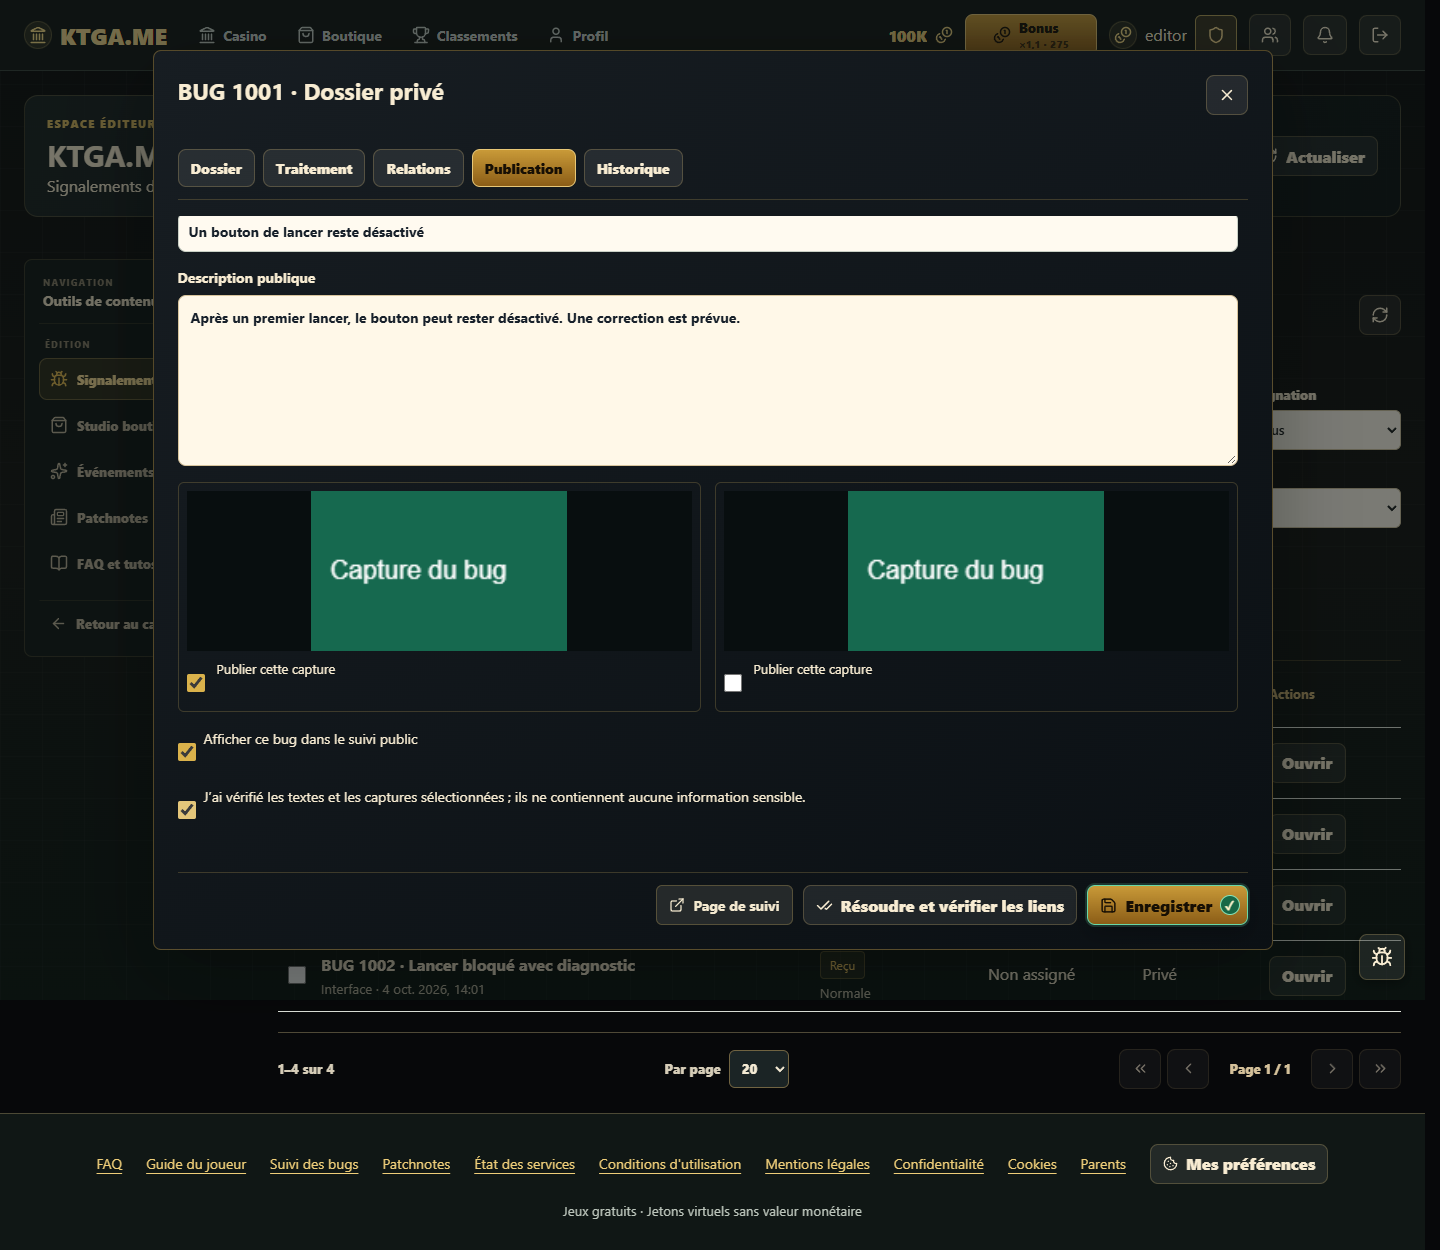
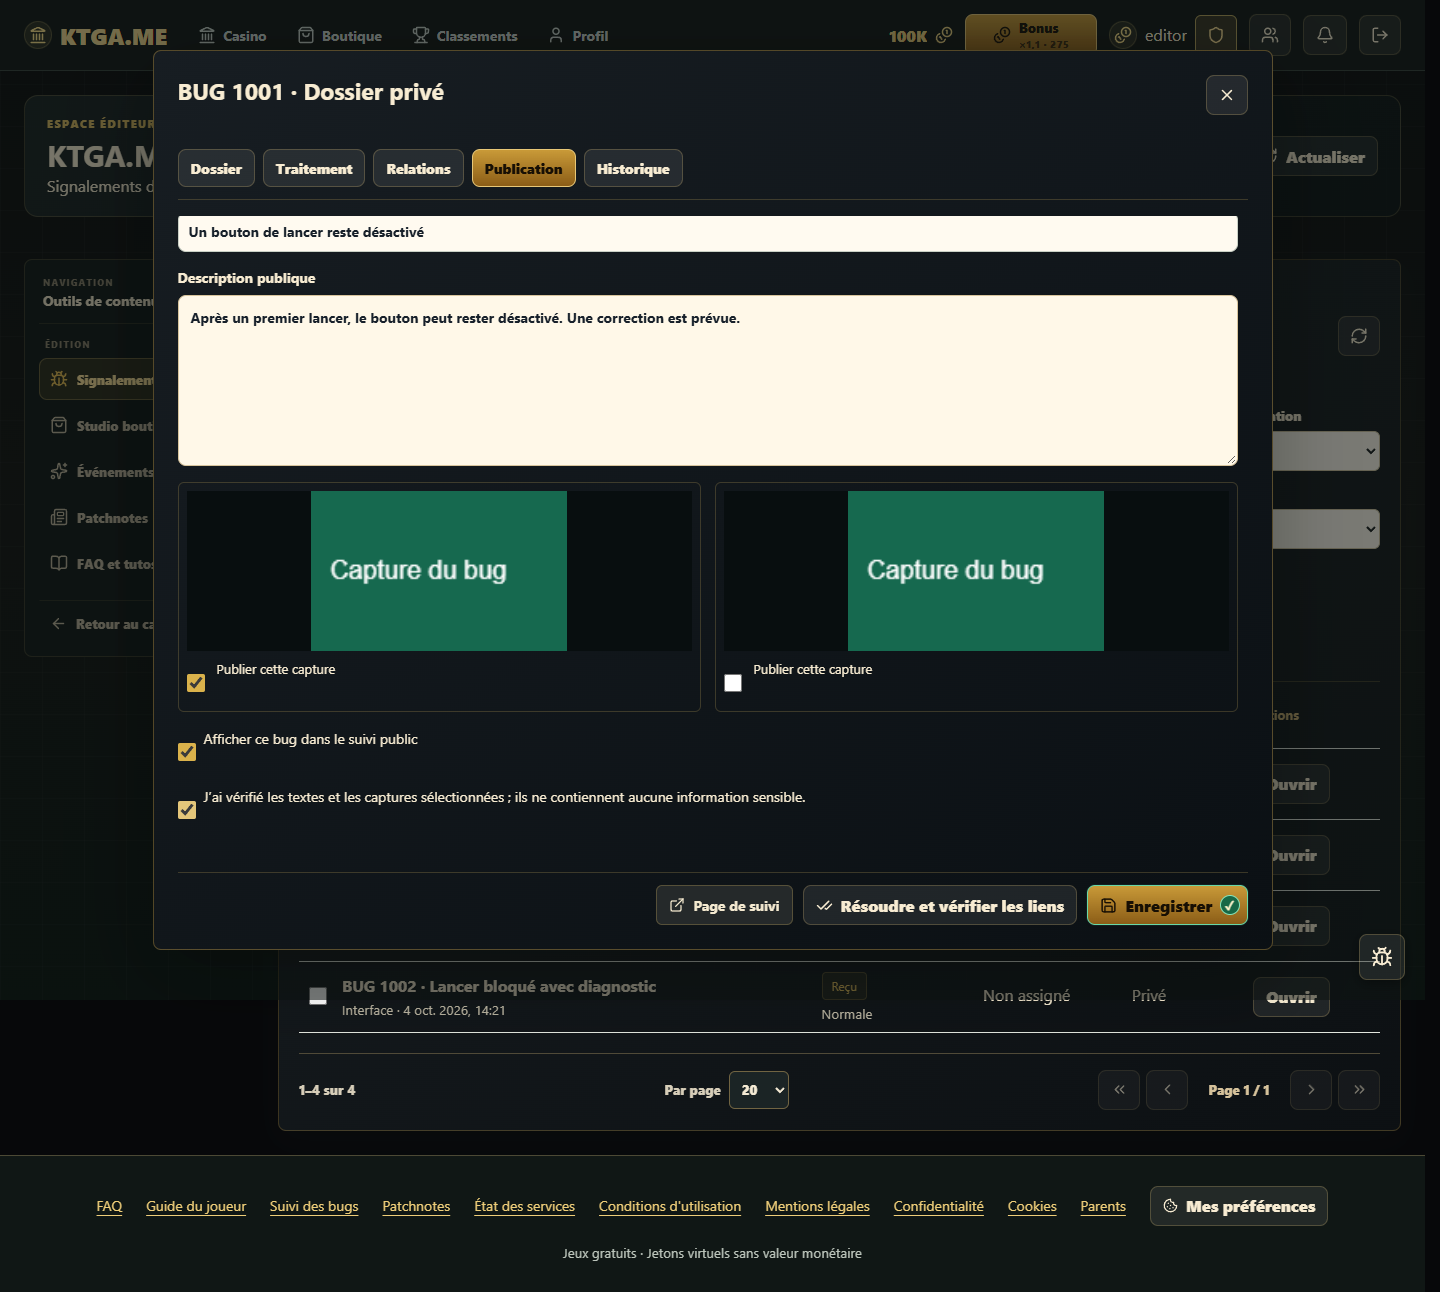
fix(bugs): restore framed public and admin page surfaces

diff --git a/client/src/features/bugs/BugReportsPage.jsx b/client/src/features/bugs/BugReportsPage.jsx
@@ -37,7 +37,7 @@ export function BugReportsPage({ id, user, onBack, onNavigate }) {
   }
   const shown = report && privileged && !privateView && report.visible ? { ...report, title: report.publicTitle, description: report.publicDescription, images: report.images.filter((image) => image.visible), comments: report.comments.filter((entry) => entry.visible && entry.kind !== "internal"), privateView: false } : report;
   const changeFilter = (key, value) => setFilters((current) => ({ ...current, [key]: value, page: 1 }));
-  return <main className="app-shell issue-page"><header className="page-heading"><div><span className="eyebrow">KTGA.ME · Suivi public</span><h1><Bug size={27} />{id ? `BUG ${id}` : "Signalements de bugs"}</h1></div><button type="button" className="secondary" onClick={id ? () => onNavigate("") : onBack}><ArrowLeft size={17} />{id ? "Tous les bugs" : "Casino"}</button></header><section className="panel issue-page-panel">
+  return <main className="app-shell issue-page"><header className="page-heading"><div><span className="eyebrow">KTGA.ME · Suivi public</span><h1><Bug size={27} />{id ? `BUG ${id}` : "Signalements de bugs"}</h1></div><button type="button" className="secondary" onClick={id ? () => onNavigate("") : onBack}><ArrowLeft size={17} />{id ? "Tous les bugs" : "Casino"}</button></header><section className="issue-page-panel">
     {error && <p className="error" role="alert">{error}</p>}
     {!id && <><div className="issue-filters"><label className="issue-search"><Search size={17} /><input aria-label="Rechercher un bug" placeholder="Titre ou BUG 1842" value={filters.search} onChange={(event) => changeFilter("search", event.target.value)} /></label>{["status", "category"].map((key) => <label key={key}>{key === "status" ? "Statut" : "Catégorie"}<select aria-label={key === "status" ? "Statut" : "Catégorie"} value={filters[key]} onChange={(event) => changeFilter(key, event.target.value)}><option value="all">Tous</option>{Object.entries(metadata?.[key === "status" ? "statuses" : "categories"] ?? {}).map(([value, label]) => <option key={value} value={value}>{label}</option>)}</select></label>)}{user && <label className="issue-check"><input type="checkbox" checked={filters.mine} onChange={(event) => changeFilter("mine", event.target.checked)} />Mes signalements</label>}</div><p className="issue-muted">Les dossiers publiés sont relus. Les informations de compte et les diagnostics ne sont jamais publics.</p>{loading ? <p role="status">Chargement…</p> : !result?.rows.length ? <div className="issue-empty"><Bug size={30} /><h2>Aucun signalement à afficher</h2><p>Les nouveaux signalements restent privés pendant leur relecture.</p></div> : <div className="issue-list">{result.rows.map((row) => <a key={row.id} href={appPath("bugs", row.id)} className="issue-list-row" onClick={(event) => { if (!event.ctrlKey && !event.metaKey && !event.shiftKey && event.button === 0) { event.preventDefault(); onNavigate(row.id); } }}><span className="issue-code">{row.code}</span><div><strong>{row.title}</strong><small>{metadata?.categories[row.category]} · {issueDate(row.created_at)}{!row.visible && " · Privé"}</small></div><span className={`issue-state issue-state-${row.status}`}>{metadata?.statuses[row.status]}</span><span>{metadata?.priorities[row.priority]}</span></a>)}</div>}{result && <Pagination {...result} onPage={(page) => setFilters({ ...filters, page })} onPageSize={(pageSize) => setFilters({ ...filters, pageSize, page: 1 })} label="Pages des signalements" />}</>}
     {id && (loading ? <p role="status">Chargement…</p> : shown && <><div className="issue-detail-heading"><h2>{shown.title}</h2>{privileged && <div className="actions"><button type="button" className="secondary" onClick={() => setPrivateView((current) => !current)}><LockKeyhole size={16} />{privateView ? "Version publique" : "Informations privées"}</button><button type="button" onClick={() => setEditing(true)}><Pencil size={16} />Gérer le dossier</button></div>}</div>{shown.privateView && <p className="issue-privacy-note"><LockKeyhole size={16} />{privileged ? "Dossier privé · réservé aux administrateurs et éditeurs." : "Tu consultes ton dossier original. Les autres visiteurs ne voient que sa version publique, après validation."}</p>}<BugReportDetail report={shown} metadata={metadata} showPrivate={shown.privateView} />{shown.comments.length > 0 && <section className="issue-text-section"><h3>Commentaires</h3>{shown.comments.map((entry) => <article key={entry.id} className="issue-comment"><header><strong>{entry.kind === "staff" ? "Équipe KTGA.ME" : entry.kind === "reporter" ? "Auteur du signalement" : entry.kind === "internal" ? "Note interne" : "Joueur"}</strong><time>{issueDate(entry.createdAt)}</time>{!entry.visible && <small>Privé / en attente</small>}</header><p className="issue-prewrap">{entry.body}</p></article>)}</section>}{(user || bugReceipt(id)) && <form className="issue-comment-form" onSubmit={sendComment}><label>Ajouter une précision<textarea aria-label="Ajouter une précision" rows={3} maxLength={4000} minLength={3} required value={comment} onChange={(event) => setComment(event.target.value)} /></label><small>Ne joins pas d’informations personnelles. Les commentaires sont relus avant publication.</small><button type="submit" disabled={busy}><Send size={16} />Envoyer</button>{message && <p role="status">{message}</p>}</form>}</>)}

diff --git a/client/src/features/bugs/BugReportsAdmin.jsx b/client/src/features/bugs/BugReportsAdmin.jsx
@@ -43,7 +43,7 @@ export function BugReportsAdmin() {
     catch (reason) { setError(reason.message); }
     finally { setBusy(false); }
   }
-  return <section className="issue-admin"><div className="issue-section-heading"><div><span className="eyebrow">Diagnostic et suivi</span><h2><Bug size={22} />Signalements de bugs</h2><p className="issue-muted">{metadata?.summary.pending ?? 0} à traiter · {metadata?.summary.private ?? 0} dossiers privés</p></div><button type="button" className="secondary icon-toggle" title="Actualiser" onClick={load}><RefreshCw size={18} /></button></div>
+  return <section className="card admin-list issue-admin"><div className="issue-section-heading"><div><span className="eyebrow">Diagnostic et suivi</span><h2><Bug size={22} />Signalements de bugs</h2><p className="issue-muted">{metadata?.summary.pending ?? 0} à traiter · {metadata?.summary.private ?? 0} dossiers privés</p></div><button type="button" className="secondary icon-toggle" title="Actualiser" onClick={load}><RefreshCw size={18} /></button></div>
     {error && <p className="error" role="alert">{error}</p>}<div className="issue-filters"><label className="issue-search"><Search size={17} /><input aria-label="Rechercher un signalement" value={filters.search} placeholder="Titre ou identifiant" onChange={(event) => filter("search", event.target.value)} /></label>{[["status", "Statut", metadata?.statuses], ["priority", "Priorité", metadata?.priorities], ["category", "Catégorie", metadata?.categories], ["visibility", "Visibilité", { public: "Public", private: "Privé" }]].map(([key, label, options]) => <Select key={key} label={label} value={filters[key]} onChange={(value) => filter(key, value)} options={{ all: "Tous", ...options }} />)}<Select label="Assignation" value={filters.assignee} onChange={(value) => filter("assignee", value)} options={Object.fromEntries((metadata?.staff ?? []).map((user) => [user.id, user.name]))} empty="Tous" /><Select label="Groupe" value={filters.group} onChange={(value) => filter("group", value)} options={Object.fromEntries((metadata?.groups ?? []).map((group) => [group.id, group.name]))} empty="Tous" /></div>
     <div className="issue-bulk-toolbar"><span>{selected.length} sélectionné(s)</span><button type="button" className="secondary" disabled={!selected.length} onClick={() => { setChanges({}); setBulk(true); }}><CheckCheck size={16} />Modifier en série</button><form className="actions" onSubmit={addGroup}><input aria-label="Nom du groupe" placeholder="Nouveau groupe" minLength={3} maxLength={120} required value={groupName} onChange={(event) => setGroupName(event.target.value)} /><button type="submit" className="secondary icon-toggle" disabled={busy} title="Créer le groupe"><Plus size={17} /></button></form></div>
     {loading ? <p role="status">Chargement des dossiers…</p> : <div className="issue-admin-table"><table className="score-table"><thead><tr><th><input type="checkbox" aria-label="Sélectionner cette page" checked={Boolean(result?.rows.length && result.rows.every((row) => selected.includes(row.id)))} onChange={(event) => setSelected(event.target.checked ? result.rows.map((row) => row.id) : [])} /></th><th>Dossier</th><th>Statut / priorité</th><th>Assignation</th><th>Publication</th><th>Actions</th></tr></thead><tbody>{result?.rows.map((row) => <tr key={row.id}><td><input type="checkbox" aria-label={`Sélectionner ${row.code}`} checked={selected.includes(row.id)} onChange={() => setSelected((current) => current.includes(row.id) ? current.filter((entry) => entry !== row.id) : [...current, row.id].slice(0, 100))} /></td><td><strong>{row.code} · {row.title}</strong><small>{metadata?.categories[row.category]} · {issueDate(row.created_at)}</small></td><td><span className={`issue-state issue-state-${row.status}`}>{metadata?.statuses[row.status]}</span><small>{metadata?.priorities[row.priority]}</small></td><td>{metadata?.staff.find((user) => user.id === row.assignee)?.name ?? "Non assigné"}<small>{metadata?.groups.find((group) => group.id === row.group_id)?.name}</small></td><td>{row.visible ? "Public" : "Privé"}<small>{row.pending_comments ? `${row.pending_comments} commentaire(s) à relire` : ""}</small></td><td><button type="button" className="secondary" onClick={() => setEditing(row.id)}>Ouvrir</button></td></tr>)}</tbody></table>{!result?.rows.length && <p className="issue-empty">Aucun signalement.</p>}</div>}{result && <Pagination {...result} onPage={(page) => { setFilters({ ...filters, page }); setSelected([]); }} onPageSize={(pageSize) => { setFilters({ ...filters, pageSize, page: 1 }); setSelected([]); }} />}

diff --git a/client/src/features/bugs/bugs.css b/client/src/features/bugs/bugs.css
@@ -32,7 +32,7 @@
 .issue-success .actions { justify-content: center; }
 .issue-success h3 { font-size: 26px; }
 .issue-page h1 { display: flex; align-items: center; gap: 12px; }
-.issue-page-panel { padding: 24px; }
+.issue-page-panel { min-width: 0; border: 1px solid #5b533b; border-radius: 8px; background: #101718; padding: 22px; }
 .issue-filters { display: flex; flex-wrap: wrap; gap: 14px; align-items: end; margin-bottom: 18px; }
 .issue-filters > label { display: flex; flex-direction: column; gap: 7px; flex: 1 1 145px; font-size: 13px; }
 .issue-filters .issue-search { position: relative; flex: 2 1 220px; }
@@ -91,7 +91,7 @@
   .issue-tabs button { padding: 7px 9px; font-size: 12px; }
   .issue-form-footer { align-items: stretch; flex-direction: column; }
   .issue-list-row { grid-template-columns: 80px minmax(0,1fr); gap: 10px; }
-  .issue-page-panel { padding: 16px; }
+  .issue-page-panel { padding: 12px; }
   .issue-image-grid { grid-template-columns: repeat(2,minmax(0,1fr)); }
   .issue-context-list > div { grid-template-columns: 85px minmax(0,1fr); }
   .issue-launcher { right: 12px; bottom: 12px; }
